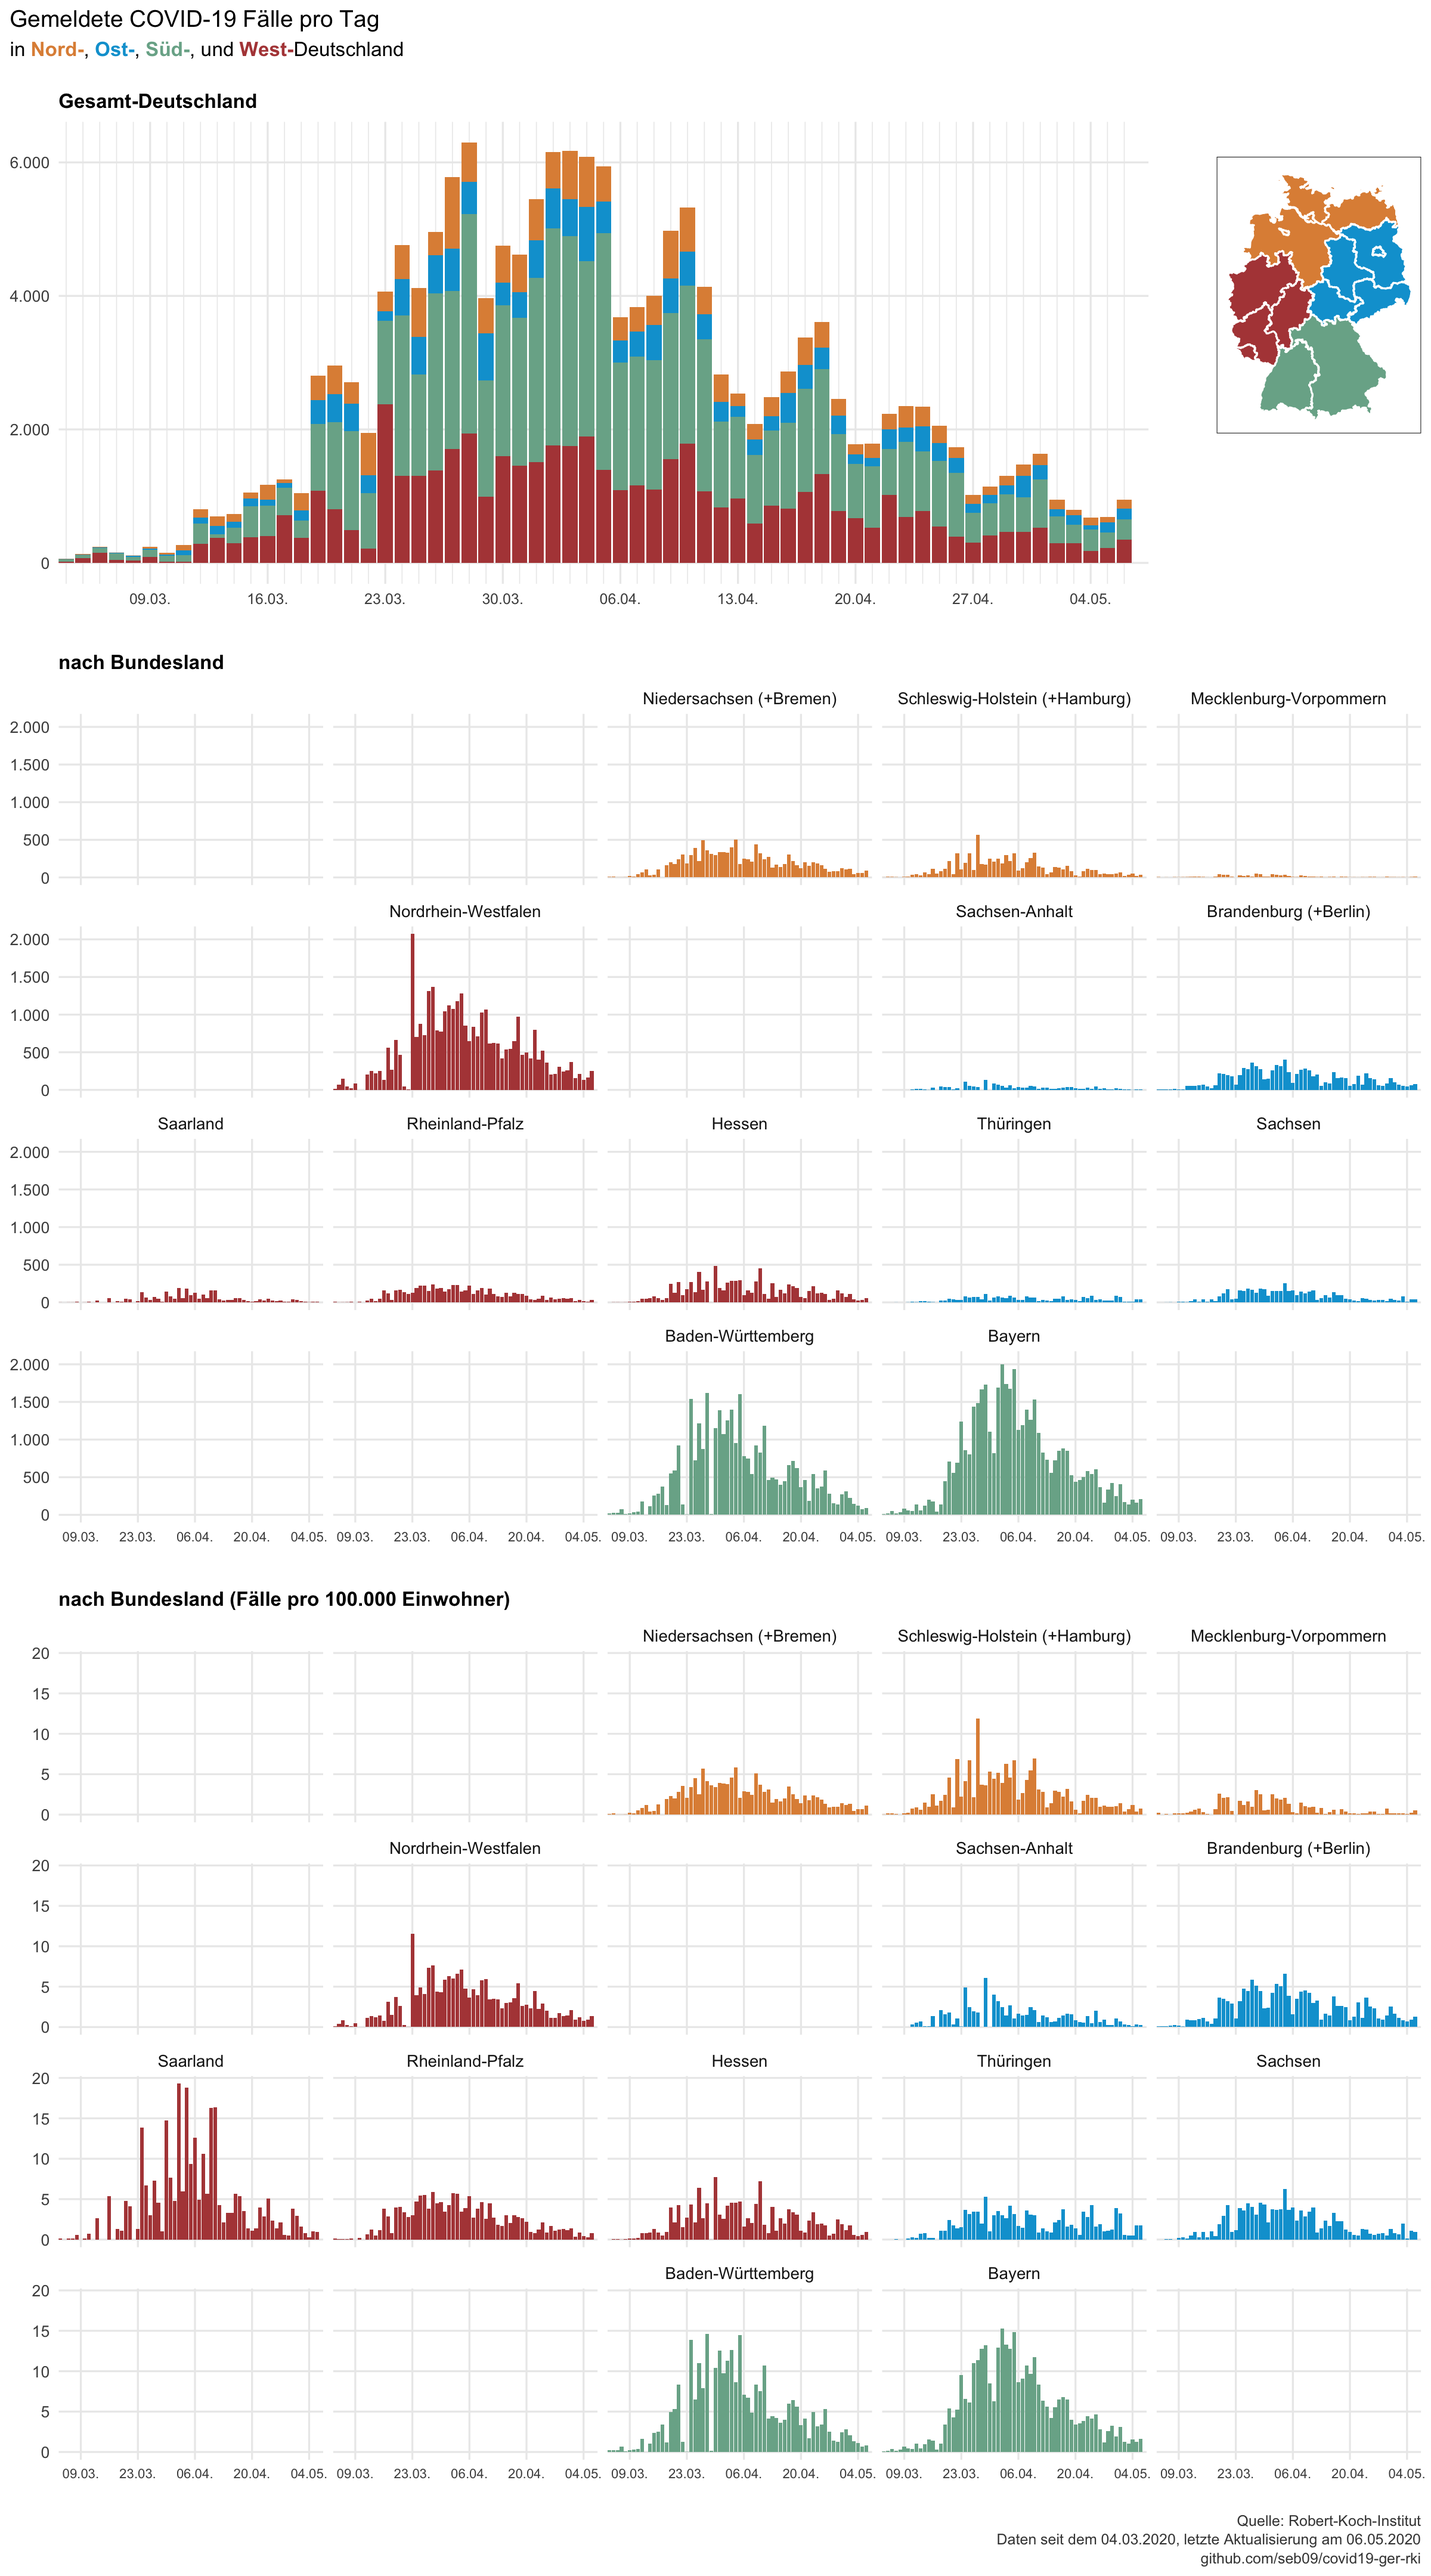
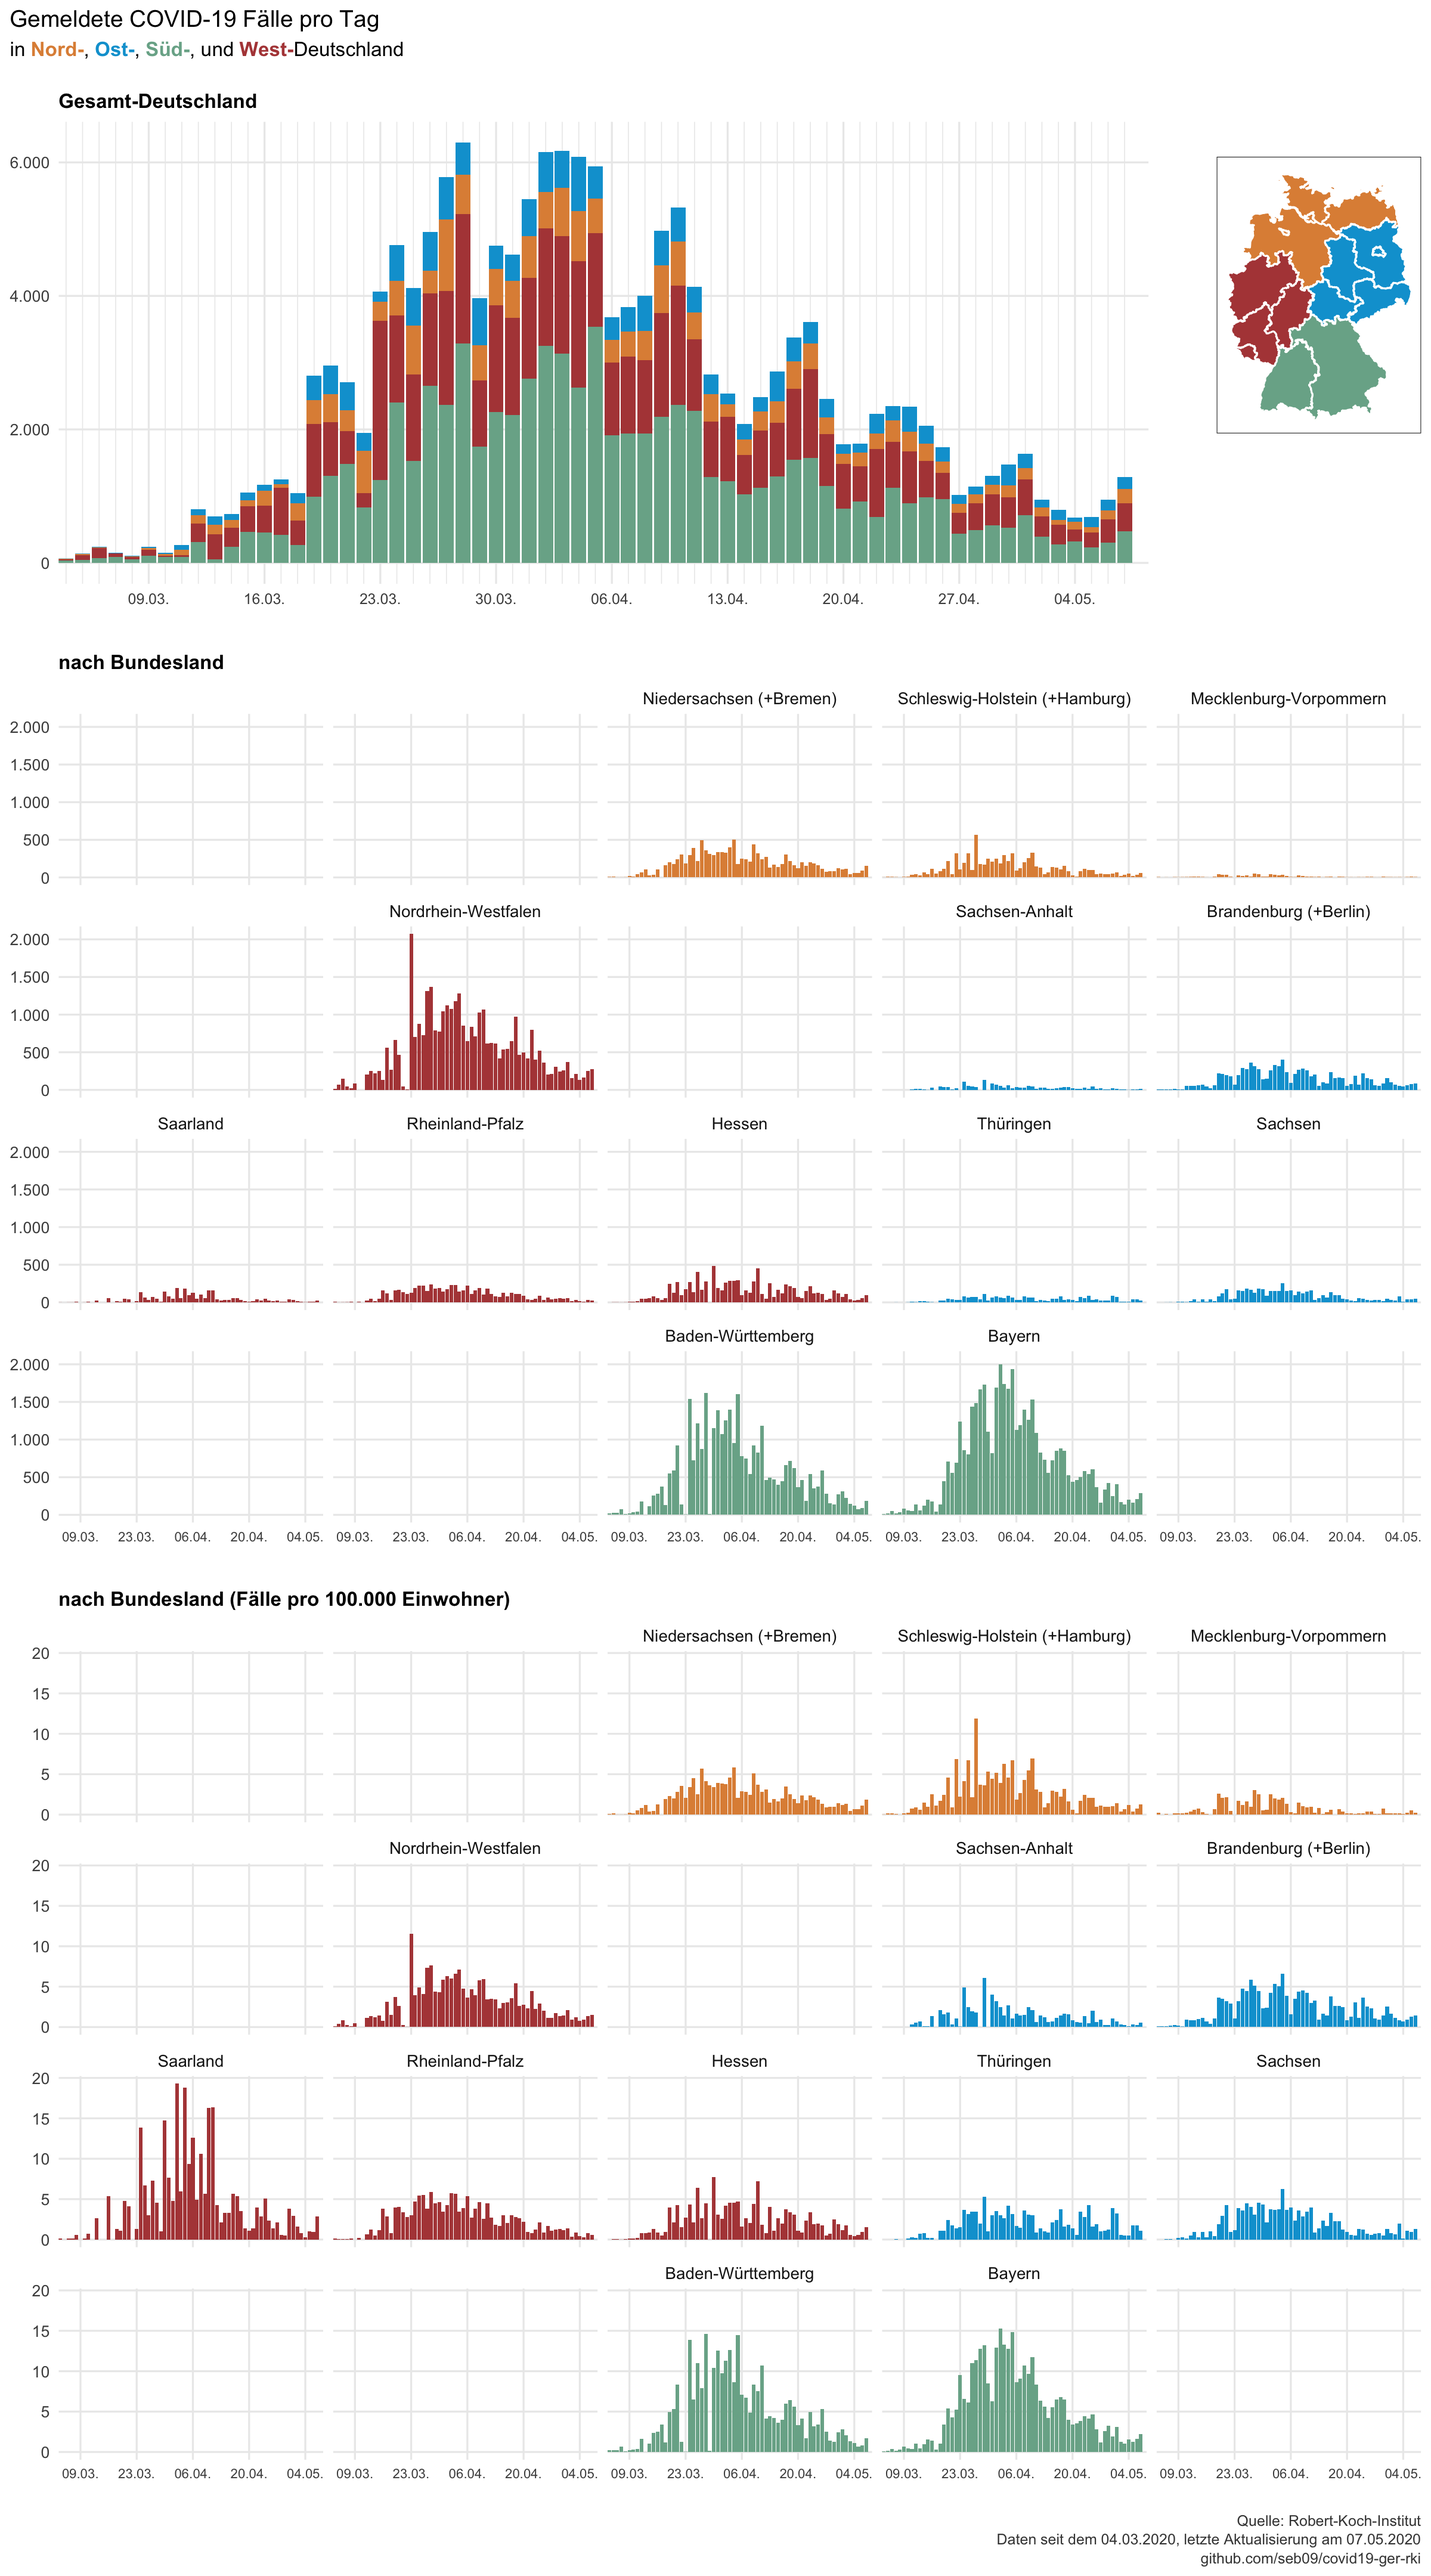
daily update 2020-05-07

diff --git a/README.md b/README.md
@@ -1,6 +1,6 @@
 Data from the Robert-Koch-Institut on COVID-19 in Germany
 ================
-Last update: 2020-05-06
+Last update: 2020-05-07
 
 This repository contains data on reported COVID-19 cases in Germany and
 its federal states that is published daily by the Robert-Koch-Institut
@@ -14,26 +14,26 @@ corona_rki %>%
   print(n = 16)
 ```
 
-    ## # A tibble: 1,018 x 6
+    ## # A tibble: 1,034 x 6
     ##    Datum      Bundesland      Fallzahl Todeszahl Fallzahl_neu Todeszahl_neu
     ##    <date>     <chr>              <dbl>     <dbl>        <dbl>         <dbl>
-    ##  1 2020-05-06 Baden-Württemb…    32576      1481           94            29
-    ##  2 2020-05-06 Bayern             43371      2001          209            52
-    ##  3 2020-05-06 Berlin              6092       159           50             5
-    ##  4 2020-05-06 Brandenburg         2969       127           29             4
-    ##  5 2020-05-06 Bremen               916        31           21             0
-    ##  6 2020-05-06 Hamburg             4664       190           20            18
-    ##  7 2020-05-06 Hessen              8642       386           57             5
-    ##  8 2020-05-06 Mecklenburg-Vo…      711        19            8             0
-    ##  9 2020-05-06 Niedersachsen      10453       470           73             7
-    ## 10 2020-05-06 Nordrhein-West…    33977      1358          249            26
-    ## 11 2020-05-06 Rheinland-Pfalz     6191       187           31             5
-    ## 12 2020-05-06 Saarland            2627       141            9             2
-    ## 13 2020-05-06 Sachsen             4784       177           39             6
-    ## 14 2020-05-06 Sachsen-Anhalt      1590        46            5             0
-    ## 15 2020-05-06 Schleswig-Hols…     2815       119           16             1
-    ## 16 2020-05-06 Thüringen           2429       104           37             5
-    ## # … with 1,002 more rows
+    ##  1 2020-05-07 Baden-Württemb…    32762      1497          186            16
+    ##  2 2020-05-07 Bayern             43658      2050          287            49
+    ##  3 2020-05-07 Berlin              6149       162           57             3
+    ##  4 2020-05-07 Brandenburg         2999       129           30             2
+    ##  5 2020-05-07 Bremen               963        32           47             1
+    ##  6 2020-05-07 Hamburg             4704       194           40             4
+    ##  7 2020-05-07 Hessen              8736       396           94            10
+    ##  8 2020-05-07 Mecklenburg-Vo…      715        19            4             0
+    ##  9 2020-05-07 Niedersachsen      10564       478          111             8
+    ## 10 2020-05-07 Nordrhein-West…    34249      1372          272            14
+    ## 11 2020-05-07 Rheinland-Pfalz     6213       189           22             2
+    ## 12 2020-05-07 Saarland            2655       143           28             2
+    ## 13 2020-05-07 Sachsen             4836       181           52             4
+    ## 14 2020-05-07 Sachsen-Anhalt      1602        48           12             2
+    ## 15 2020-05-07 Schleswig-Hols…     2834       120           19             1
+    ## 16 2020-05-07 Thüringen           2452       109           23             5
+    ## # … with 1,018 more rows
 
 Data is downloaded each day at 11am from the [website of the
 RKI](https://www.rki.de/DE/Content/InfAZ/N/Neuartiges_Coronavirus/Fallzahlen.html)
